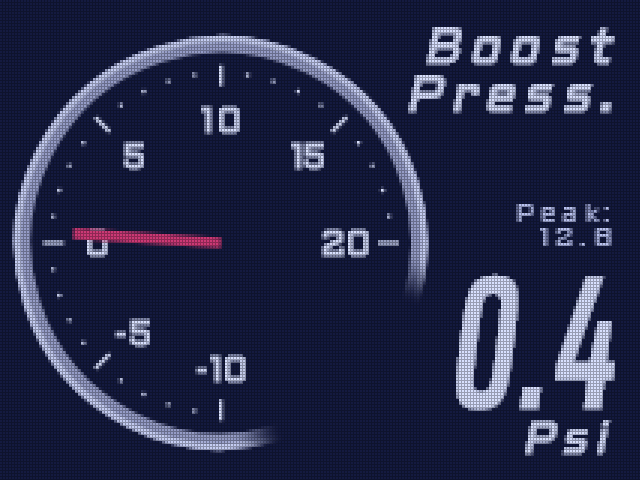
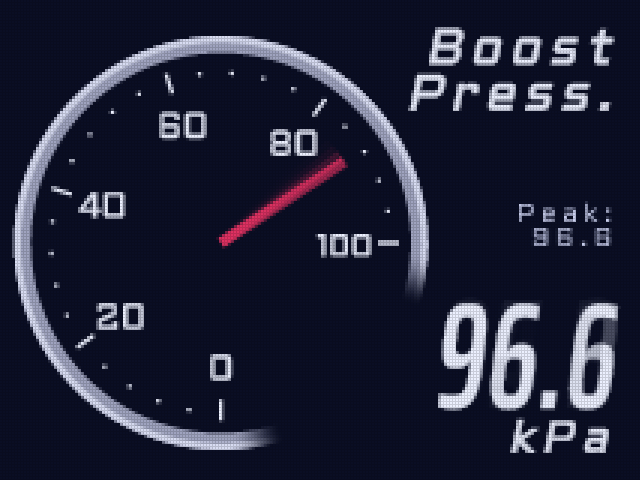
Soften the TurboXs LCD look
Lighter pixel grid (0.85 instead of 0.7), a deeper black and a whiter
white so contrast is back and the needle stays red. Same constants in
the C# and Rust renderers; README and LCD screenshot updated.

Claude-Session: https://claude.ai/code/session_01MEWPAvcjKaHgSDimtLQytS

diff --git a/src/GaugeDotnet/Gauges/TurboXsGauge.cs b/src/GaugeDotnet/Gauges/TurboXsGauge.cs
@@ -10,7 +10,7 @@ namespace GaugeDotnet.Gauges
     /// red needle) and a two-line title, status text and a large italic digital
     /// readout on the right. Title words are stacked ("Boost Press." → two lines).
     /// With <see cref="TurboXsGaugeSettings.Lcd"/> it imitates an old backlit LCD: rendered at
-    /// a third of the resolution with a visible pixel grid, a blue tint and ghosting.
+    /// a third of the resolution with a faint pixel grid, a blue tint and ghosting.
     /// </summary>
     public class TurboXsGauge : BaseGauge
     {
@@ -72,9 +72,9 @@ namespace GaugeDotnet.Gauges
         // between them is darkened to LCD_GRID; each frame keeps _lcdGhosting of the
         // last one (TurboXsGaugeSettings.LcdGhosting); and black/white map to the backlight's navy and pale blue.
         private const int LCD_CELL = 3;
-        private const float LCD_GRID = 0.7f;
-        private static readonly SKColor LcdBlack = new(0x14, 0x1A, 0x40);
-        private static readonly SKColor LcdWhite = new(0xD8, 0xE0, 0xFF);
+        private const float LCD_GRID = 0.85f;
+        private static readonly SKColor LcdBlack = new(0x0A, 0x0E, 0x24);
+        private static readonly SKColor LcdWhite = new(0xEC, 0xF0, 0xFF);
         // CPU path: per channel (R, G, B), the tinted value and the tinted value on a grid line.
         private static readonly (byte[] Plain, byte[] Line)[] LcdTables = BuildLcdTables();
 

diff --git a/rust/gauge-render/src/gauges/turboxs.rs b/rust/gauge-render/src/gauges/turboxs.rs
@@ -31,9 +31,9 @@ const RIGHT_EDGE: f32 = 612.0;
 // between them is darkened to LCD_GRID; each frame keeps `lcd_ghosting` of the
 // last one (`GaugeConfig::lcd_ghosting`); and black/white map to the backlight's navy and pale blue.
 const LCD_CELL: usize = 3;
-const LCD_GRID: f32 = 0.7;
-const LCD_BLACK: Rgba = Rgba::rgb(0x14, 0x1A, 0x40);
-const LCD_WHITE: Rgba = Rgba::rgb(0xD8, 0xE0, 0xFF);
+const LCD_GRID: f32 = 0.85;
+const LCD_BLACK: Rgba = Rgba::rgb(0x0A, 0x0E, 0x24);
+const LCD_WHITE: Rgba = Rgba::rgb(0xEC, 0xF0, 0xFF);
 
 /// LCD resolution for a screen size (cells, rounded up).
 fn lcd_size((width, height): (u32, u32)) -> (u32, u32) {

diff --git a/README.md b/README.md
@@ -109,7 +109,7 @@ Publishes a self-contained linux-arm64 binary and SCPs it to the RG35XX.
   | `StatusText` | Second line in `Text` mode | `Stop` |
 
   Peak and Min start at the first reading. R1 resets them, as on the other gauges. `StatusMode` can also be changed in the on-device config editor.
-- **Old LCD look:** `"Lcd": true` imitates a backlit handheld LCD. The gauge renders at a third of the resolution with a visible pixel grid, black becomes a dark navy and white a pale blue (which also turns the red needle pink), and moving parts leave a short trail. `LcdGhosting` sets how much of the previous frame lingers: 0 turns the trail off, and the maximum is 0.9 (default 0.3). Both can be changed in the on-device config editor. C# draws it in one GPU shader pass on the device and uses lookup tables on a CPU canvas, as Rust does. It costs about 0.4 ms per frame over the normal look in Rust and 2 ms in C# on a CPU canvas (see `bench/RESULTS.md`).
+- **Old LCD look:** `"Lcd": true` imitates a backlit handheld LCD. The gauge renders at a third of the resolution with a faint pixel grid, black becomes a deep navy and white a slightly blue white, and moving parts leave a short trail. `LcdGhosting` sets how much of the previous frame lingers: 0 turns the trail off, and the maximum is 0.9 (default 0.3). Both can be changed in the on-device config editor. C# draws it in one GPU shader pass on the device and uses lookup tables on a CPU canvas, as Rust does. It costs about 0.4 ms per frame over the normal look in Rust and 2 ms in C# on a CPU canvas (see `bench/RESULTS.md`).
 - **Colours and fonts:** `ColorHex` is ignored, because the dial has a fixed white, grey and red palette. Text uses the bundled Aldrich and Saira Extra Condensed fonts (SIL OFL 1.1, licenses in `src/GaugeDotnet/fonts`), which are also available to custom gauges.
 
 ```json
